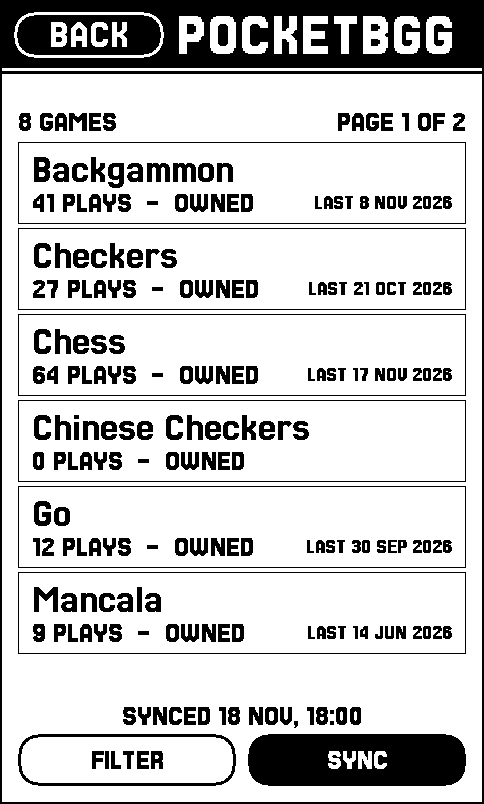
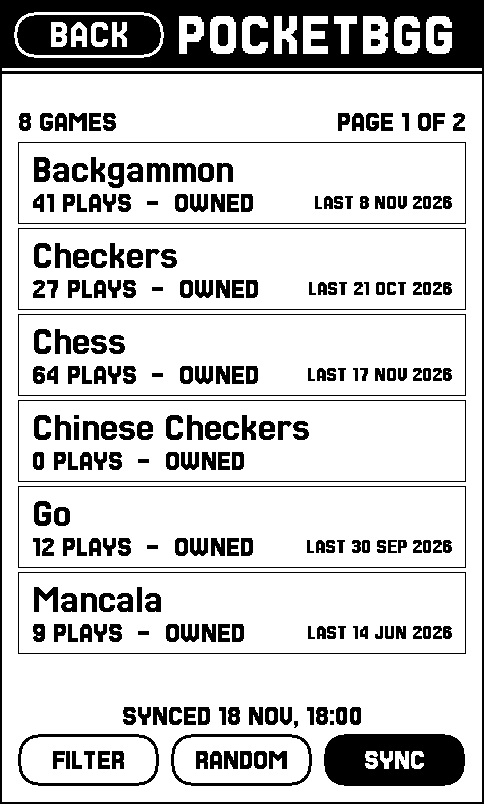
feat(pocketbgg): a RANDOM pick and wrap-around
RANDOM, beside FILTER, opens one of the games the filter shows, never the
same one twice in a row. It mixes esp_random() with the tap's microsecond,
as Bingo Caller does, and draws without modulo bias. Up and Down now wrap
on the list's pages and on a game's details.

Changed region(s): [[0.4029, 0.9017, 0.8988, 0.995], [0.093, 0.9017, 0.4029, 0.995]]

diff --git a/src/apps/pocketbgg/pocketbgg.cpp b/src/apps/pocketbgg/pocketbgg.cpp
@@ -2,6 +2,8 @@
 
 #include <Arduino.h>
 
+#include <esp_random.h>
+
 #include <atomic>
 #include <cstdio>
 #include <cstring>
@@ -33,7 +35,7 @@ namespace {
 
 // The list: a caption line saying how many games and which page this is, then one row per
 // game (the name, wrapped, and a line under it with the plays, status and last-played date),
-// then a status line and FILTER and SYNC along the bottom. The Up and Down buttons turn the
+// then a status line and FILTER, RANDOM and SYNC along the bottom. The Up and Down buttons turn the
 // pages. The details: the same caption with which game this is, the game's cover, the name
 // large, the year, plays and status, players and time, and the date last played; Up and Down
 // step through the games.
@@ -53,12 +55,13 @@ constexpr int ROW_PAD_BOTTOM = 8;
 constexpr int NAME_WIDTH = INNER_WIDTH - 2 * ROW_INSET;
 constexpr int META_HEIGHT = 26;
 
-// The bottom row holds the actions, FILTER and SYNC. The status line above it says how the last
-// sync went.
+// The bottom row holds the actions, FILTER, RANDOM and SYNC. The status line above it says how
+// the last sync went.
 constexpr int BUTTON_TOP = SCREEN_HEIGHT - MARGIN - ui::PILL_HEIGHT;
-constexpr int BUTTON_WIDTH = (INNER_WIDTH - GAP) / 2;
+constexpr int BUTTON_WIDTH = (INNER_WIDTH - 2 * GAP) / 3;
 constexpr int FILTER_LEFT = MARGIN;
-constexpr int SYNC_LEFT = MARGIN + BUTTON_WIDTH + GAP;
+constexpr int RANDOM_LEFT = FILTER_LEFT + BUTTON_WIDTH + GAP;
+constexpr int SYNC_LEFT = RANDOM_LEFT + BUTTON_WIDTH + GAP;
 constexpr int STATUS_HEIGHT = 24;
 constexpr int STATUS_TOP = BUTTON_TOP - 6 - STATUS_HEIGHT;
 constexpr int LIST_BOTTOM = STATUS_TOP - 6;
@@ -166,6 +169,7 @@ class PocketBgg final : public App {
       view_ = View::Filters;
       return TapResult::RedrawFull;
     }
+    if (ui::isInBox(x, y, RANDOM_LEFT, BUTTON_TOP, BUTTON_WIDTH, ui::PILL_HEIGHT)) return pickRandom();
 
     for (int row = firstRow(); row < endRow(); row++) {
       if (ui::isInBox(x, y, MARGIN, rowTop(row), INNER_WIDTH, heights_[row])) {
@@ -179,7 +183,7 @@ class PocketBgg final : public App {
   }
 
   // Up and Down turn the list's pages, and on a game's details step to the game before or
-  // after it in the list as it's shown. Both do nothing past the first or last.
+  // after it in the list as it's shown. Both wrap around, from the last to the first and back.
   TapResult onUpPressed() override { return step(-1); }
   TapResult onDownPressed() override { return step(1); }
 
@@ -894,11 +898,42 @@ class PocketBgg final : public App {
     } else {
       ui::drawPill(frame, FILTER_LEFT, BUTTON_TOP, BUTTON_WIDTH, "FILTER", false);
     }
+    // RANDOM too, and dimmed when the filter leaves no games to pick from.
+    if (visible_.empty()) {
+      ui::drawDimmedPill(frame, RANDOM_LEFT, BUTTON_TOP, BUTTON_WIDTH, "RANDOM");
+    } else {
+      ui::drawPill(frame, RANDOM_LEFT, BUTTON_TOP, BUTTON_WIDTH, "RANDOM", false);
+    }
     if (sync_ == Sync::Joining || sync_ == Sync::Waiting || sync_ == Sync::Downloading || sync_ == Sync::Stopping) {
       ui::drawDimmedPill(frame, SYNC_LEFT, BUTTON_TOP, BUTTON_WIDTH, "SYNCING");
     } else {
       ui::drawPill(frame, SYNC_LEFT, BUTTON_TOP, BUTTON_WIDTH, "SYNC", true);
     }
+  }
+
+  // RANDOM: one of the games the filter shows, opened as a tap on its row would. It mixes the
+  // chip's random number with the microsecond of the tap, as Bingo Caller does: esp_random() is
+  // only truly random while the radio is on, and the radio is usually off, so the tap's timing
+  // covers the rest. Nothing depends on the order of the picks, so there's no state to keep. It
+  // avoids the last pick, found by its collection id as a sync may have moved it.
+  TapResult pickRandom() {
+    const int count = static_cast<int>(visible_.size());
+    int avoid = -1;
+    for (int row = 0; row < count; row++) {
+      if (games_[visible_[row]].collId == lastPickCollId_) avoid = row;
+    }
+    const uint64_t state = bgg::mix((static_cast<uint64_t>(esp_random()) << 32) ^ static_cast<uint64_t>(micros()));
+    uint64_t drawn = 0;
+    const int row = bgg::randomRow(count, avoid, [&] {
+      drawn++;
+      return static_cast<uint32_t>(bgg::mix(state + drawn * 0xD1B54A32D192ED03ull) >> 32);
+    });
+    if (row < 0) return TapResult::Nothing;
+    selected_ = row;
+    lastPickCollId_ = games_[visible_[row]].collId;
+    view_ = View::Details;
+    loadCover(games_[visible_[row]]);
+    return TapResult::RedrawFull;
   }
 
   TapResult step(int by) {
@@ -912,8 +947,8 @@ class PocketBgg final : public App {
   }
 
   TapResult turnPage(int step) {
-    const int next = page_ + step;
-    if (next < 0 || next >= pageCount()) return TapResult::Nothing;
+    const int next = bgg::stepRow(page_, step, pageCount());
+    if (next < 0) return TapResult::Nothing;
     page_ = next;
     return TapResult::Redraw;
   }
@@ -1064,6 +1099,7 @@ class PocketBgg final : public App {
   bool filterSaveFailed_ = false;
   std::vector<int> visible_;  // positions in games_ that the filter lets through
   View view_ = View::List;
+  uint32_t lastPickCollId_ = 0;  // the last RANDOM game's collection id, 0 before any
   bool needsRefresh_ = false;  // the order by last played is out of date, to redo on leaving
   std::vector<int> heights_;  // each row's height, measured once
   std::vector<int> pages_;    // the first row of each page

diff --git a/tests/pocketbgg/test_pocketbgg.cpp b/tests/pocketbgg/test_pocketbgg.cpp
@@ -87,8 +87,34 @@ void testPaginate() {
   check(pageOf(pages, 0) == 0 && pageOf(pages, 2) == 0 && pageOf(pages, 3) == 1 && pageOf(pages, 6) == 2,
         "each row is found on its page");
   check(stepRow(0, 1, 5) == 1 && stepRow(3, -1, 5) == 2, "a step to the next and the previous game");
-  check(stepRow(4, 1, 5) == -1 && stepRow(0, -1, 5) == -1, "no step past the last or the first");
+  check(stepRow(4, 1, 5) == 0 && stepRow(0, -1, 5) == 4, "past the last comes the first, and before the first the last");
+  check(stepRow(1, 1, 2) == 0 && stepRow(0, -1, 2) == 1, "with two, each step goes to the other");
   check(stepRow(0, 1, 1) == -1 && stepRow(0, 1, 0) == -1 && stepRow(-1, 1, 5) == -1, "one game, none, or none shown");
+
+  // A source that hands out a fixed run of values, then repeats the last.
+  auto fixed = [](std::vector<uint32_t> values) {
+    return [values, i = size_t(0)]() mutable { return values[i < values.size() ? i++ : values.size() - 1]; };
+  };
+  check(randomRow(0, -1, fixed({12345})) == -1, "no random pick with no games");
+  check(randomRow(1, -1, fixed({12345})) == 0 && randomRow(1, 0, fixed({12345})) == 0, "one game is always the pick, even again");
+  bool inRange = true, neverAvoided = true, seen[5] = {};
+  for (uint32_t r = 0; r < 1000; r++) {
+    const int any = randomRow(5, -1, fixed({r * 2654435761u}));
+    inRange = inRange && any >= 0 && any < 5;
+    if (any >= 0 && any < 5) seen[any] = true;
+    const int other = randomRow(5, 2, fixed({r * 2654435761u}));
+    neverAvoided = neverAvoided && other != 2 && other >= 0 && other < 5;
+  }
+  check(inRange && seen[0] && seen[1] && seen[2] && seen[3] && seen[4], "a random pick reaches every game and no further");
+  check(neverAvoided, "a second pick is never the last one");
+  check(randomRow(5, 9, fixed({0xFFFFFFF0u})) >= 0 && randomRow(5, 9, fixed({0xFFFFFFF0u})) < 5, "a last pick that's no longer shown is ignored");
+  check(randomRow(2, 0, fixed({0})) == 1 && randomRow(2, 1, fixed({7})) == 0, "with two games, the other one");
+
+  // 2^32 isn't a multiple of 3, so the top value would give 0 one time too many: it's thrown back.
+  check(uniform(3, fixed({0xFFFFFFFFu, 4})) == 1, "a value past the last whole multiple is drawn again");
+  check(uniform(3, fixed({0xFFFFFFFEu})) == 0xFFFFFFFEu % 3, "the last value inside it is kept");
+  check(uniform(4, fixed({0xFFFFFFFFu})) == 3, "nothing is thrown back when n divides 2^32");
+  check(mix(1) != mix(2) && (mix(1) ^ mix(2)) >> 32 != 0, "a one-bit change reaches the top half");
 
   check(paginate({100, 100, 100}, 308, 4) == std::vector<int>({0}), "rows that exactly fill the room share a page");
   check(paginate({100, 150, 100, 50}, 260, 4) == std::vector<int>({0, 2}), "rows of different heights");

diff --git a/src/apps/pocketbgg/pocketbgg_list.h b/src/apps/pocketbgg/pocketbgg_list.h
@@ -71,8 +71,43 @@ std::vector<int> paginate(const std::vector<int>& heights, int room, int gap);
 // Which page a row is on, given paginate()'s answer.
 int pageOf(const std::vector<int>& firstRows, int row);
 
-// The row `by` away from `row` among `count`, for stepping through the games on their details,
-// or -1 past either end.
+// The row `by` away from `row` among `count`, for stepping through the games on their details or
+// the list's pages. It wraps around: past the last comes the first, and before the first the
+// last. -1 when there's nowhere else to go: one row, none, or `row` out of range.
 int stepRow(int row, int by, int count);
+
+// SplitMix64's finaliser, as Bingo Caller's: every input bit flips about half the output bits,
+// so entropy that arrives in a few low bits, such as a tap's microsecond, spreads through all 64.
+inline uint64_t mix(uint64_t z) {
+  z += 0x9E3779B97F4A7C15ull;
+  z = (z ^ (z >> 30)) * 0xBF58476D1CE4E5B9ull;
+  z = (z ^ (z >> 27)) * 0x94D049BB133111EBull;
+  return z ^ (z >> 31);
+}
+
+// 0 to n-1 from `next`, a source of 32-bit values, all exactly equally likely: values above the
+// largest multiple of n that fits in 32 bits are thrown back, so no result gets the leftover.
+template <typename Next>
+uint32_t uniform(uint32_t n, Next&& next) {
+  const uint32_t limit = 0xFFFFFFFFu - (0xFFFFFFFFu % n + 1) % n;
+  uint32_t v;
+  do {
+    v = next();
+  } while (v > limit);
+  return v % n;
+}
+
+// A row among `count` for a random pick, drawn from `next`, or -1 for none. It isn't `avoid`,
+// the last pick, unless that's the only row, so a second pick always shows another game. Pass
+// -1 to allow every row.
+template <typename Next>
+int randomRow(int count, int avoid, Next&& next) {
+  if (count <= 0) return -1;
+  if (count == 1) return 0;
+  if (avoid < 0 || avoid >= count) return static_cast<int>(uniform(static_cast<uint32_t>(count), next));
+  // One of the other rows: pick among count - 1, then step over the one to avoid.
+  const int row = static_cast<int>(uniform(static_cast<uint32_t>(count - 1), next));
+  return row >= avoid ? row + 1 : row;
+}
 
 }  // namespace pocketbgg

diff --git a/src/apps/pocketbgg/pocketbgg_list.cpp b/src/apps/pocketbgg/pocketbgg_list.cpp
@@ -88,9 +88,9 @@ int pageOf(const std::vector<int>& firstRows, int row) {
 }
 
 int stepRow(int row, int by, int count) {
-  if (row < 0 || row >= count) return -1;
-  const int next = row + by;
-  return next >= 0 && next < count ? next : -1;
+  if (count <= 1 || row < 0 || row >= count) return -1;
+  const int next = ((row + by) % count + count) % count;  // C++'s % keeps the sign, so add count
+  return next == row ? -1 : next;
 }
 
 }  // namespace pocketbgg

diff --git a/src/apps/pocketbgg/README.md b/src/apps/pocketbgg/README.md
@@ -29,7 +29,7 @@ If `SYNC` doesn't get as far as Wi-Fi, the line above it says what's wrong with 
 ## Getting around
 
 - The list shows each game's name, with how many times it's been played and its status under it, such as `33 PLAYS - OWNED`, and at the right of that line, smaller, when it was last played: `LAST 17 NOV 2026`. The year is on the game's details. Long names wrap onto a second line rather than being cut short.
-- The Up and Down buttons turn the pages. `PAGE 1 OF 25` at the top says where you are, and the count on the left how many games there are.
+- The Up and Down buttons turn the pages, and wrap around: Down on the last page goes back to page 1, and Up on page 1 to the last. `PAGE 1 OF 25` at the top says where you are, and the count on the left how many games there are.
 - The list is kept on the card, so it's there without Wi-Fi, after sleep and after a restart. The line above `SYNC` says when it was last synced, in the time zone chosen in Settings.
 - `SYNC` downloads your whole collection from BGG: every game with any status (owned, wishlist, previously owned and the rest), expansions included. It joins Wi-Fi, opening the Wi-Fi screen if it isn't already connected, and turns the radio off again when it's done. BGG often answers "preparing it" first, so it waits 5 seconds and asks again, up to 6 times. After the collection it reads every play you've logged, 100 a page with a 5 second pause between pages as BGG asks, for each game's last-played date: about 4 minutes for 3,400 plays. The list can be browsed meanwhile, and the line above `SYNC` says how far it's got, such as `READING PLAYS, PAGE 12 OF 34`. `BACK` stops it, and the dates read so far are kept. `BACK` while it's downloading stops it first.
 - `FILTER` chooses which games the list shows, and starts at owned games only. Tap a row to switch it:
@@ -41,7 +41,8 @@ If `SYNC` doesn't get as far as Wi-Fi, the line above it says what's wrong with 
   `SHOWING 99 OF 203` at the top says what the choices leave, and `BACK` returns to the list. The list's count then reads `99 OF 203 GAMES`. A sync keeps the filter.
 - Last, a sync fetches each game's cover from BGG's image server and keeps it on the card, dithered to black and white: under a second a cover, so about 2.5 minutes for 200 games the first time, and a first sync about 7 minutes in all. After that only new games' covers, and covers changed on BGG, are fetched, so a sync is about 4 minutes, nearly all of it the plays. The line above `SYNC` says `FETCHING COVERS, 12 OF 41`. `BACK` stops it, the covers fetched so far are kept, and the next sync carries on with the rest. Covers of games that have left your collection are deleted.
 - Tap a game to see its details: its cover, year, plays and status, player count, play time and the date it was last played. `NO COVER YET` means it hasn't been fetched, and `NO COVER ON BGG` that BGG has no picture of it.
-- On a game's details, Down shows the next game and Up the one before, in the list's order and through its filter: `GAME 12 OF 99` at the top says where you are. `BACK` returns to the list, on the page holding the game you ended on.
+- `RANDOM` opens the details of one of the games the list shows, picked at random, so set `FILTER` first to choose among owned games for 4 players, say. `BACK` and `RANDOM` again for another: it never picks the same game twice in a row.
+- On a game's details, Down shows the next game and Up the one before, in the list's order and through its filter, wrapping from the last game to the first and back: `GAME 12 OF 99` at the top says where you are. `BACK` returns to the list, on the page holding the game you ended on.
 - `BACK` on the list returns to the APPS page.
 
 ## Saves

diff --git a/CHANGELOG.md b/CHANGELOG.md
@@ -4,6 +4,11 @@ What's new in each release, written for players. Each release's notes on GitHub 
 
 Before a release, add what changed under `## Unreleased` at the top, and commit it. `scripts/release.sh` renames that heading to the version it makes. A release without a section here falls back to the list of commits.
 
+## Unreleased
+
+- **PocketBGG:** a `RANDOM` button beside `FILTER`, which opens one of the games the filter shows, picked at random. Set the filter to owned games for 4 players, say, and let it choose tonight's game. Tapping it again never picks the same game twice in a row.
+- **PocketBGG:** Up and Down wrap around. On a game's details, Down on the last game goes to the first and Up on the first to the last, and on the list, Down on the last page goes back to page 1.
+
 ## 0.8.0
 
 - **Karuba Tiles:** a new companion for the Karuba board game. `DRAW`, or the Down button, draws one of the 36 jungle tiles at random with no repeats, shows its paths, its number in large type and its crystal or gold, lists the three drawn before it, and keeps a board of every tile that's out.
